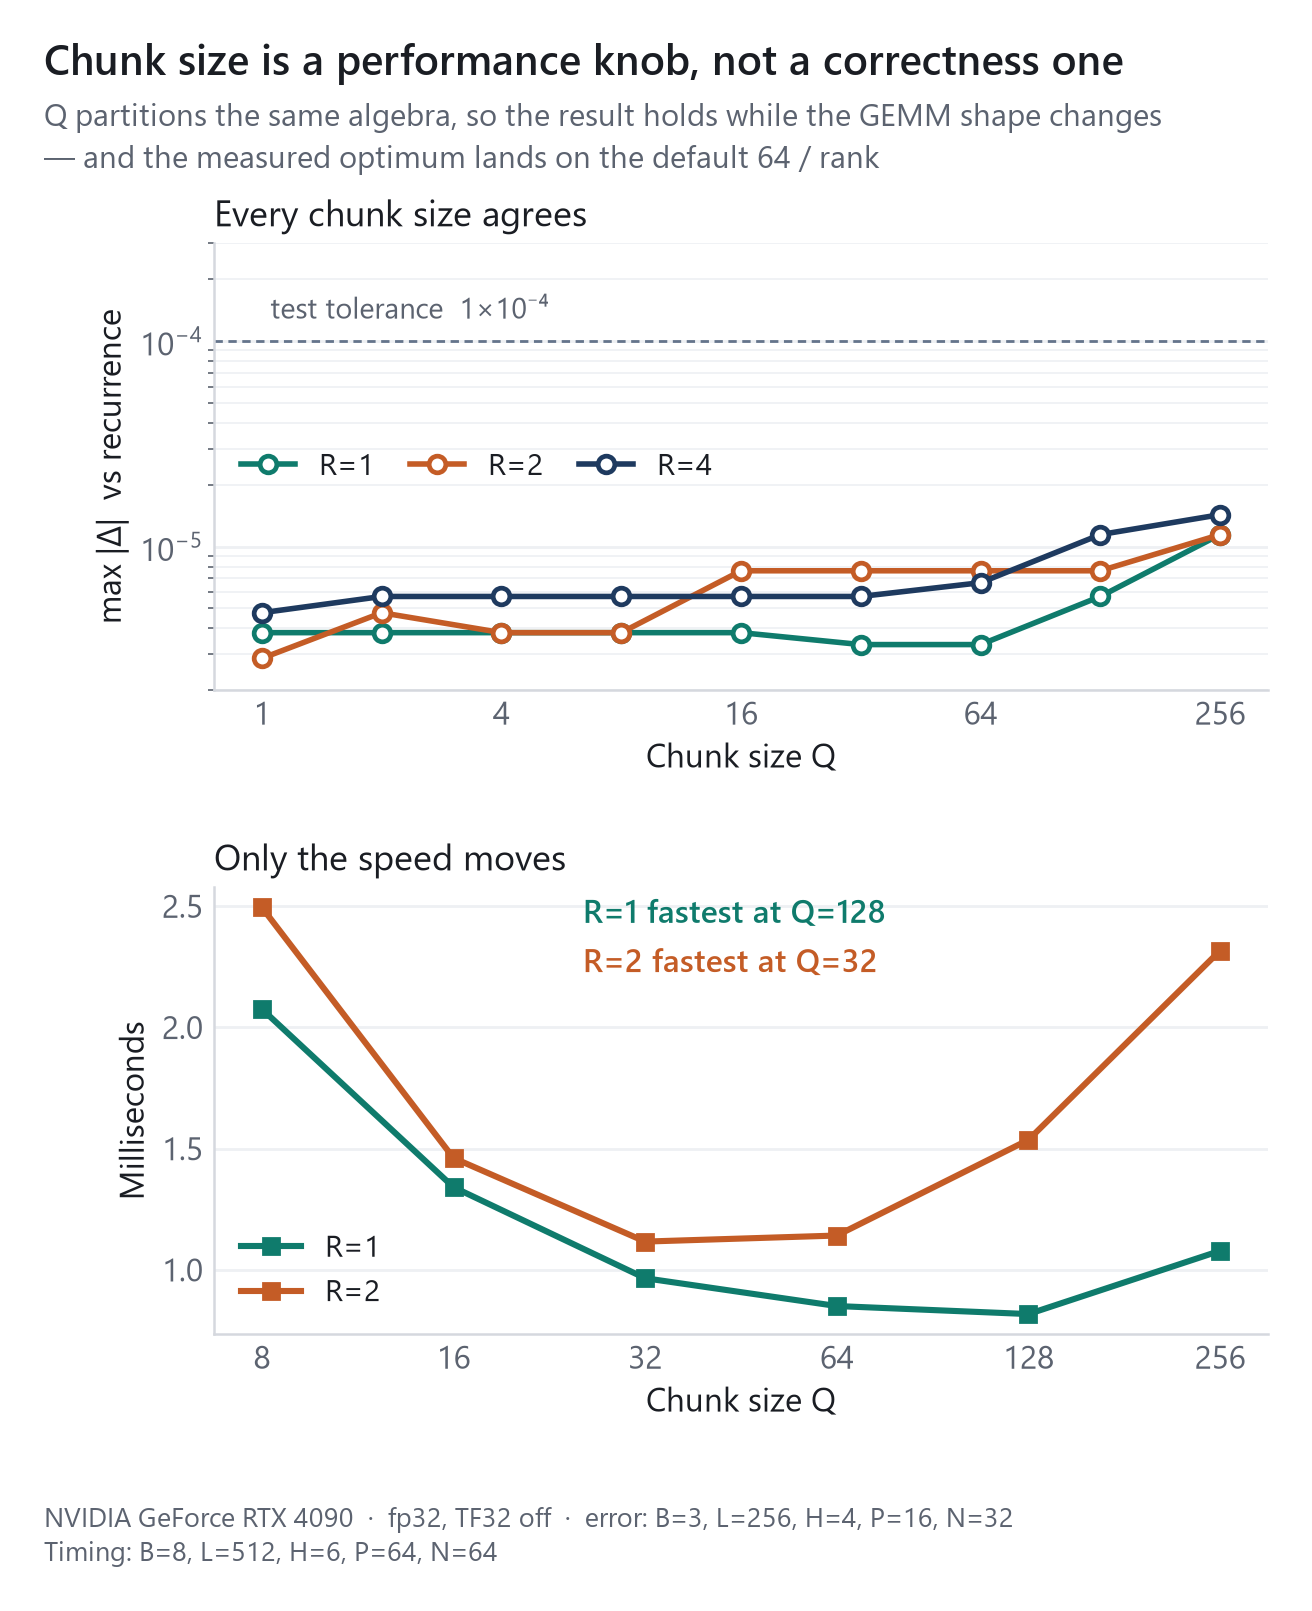
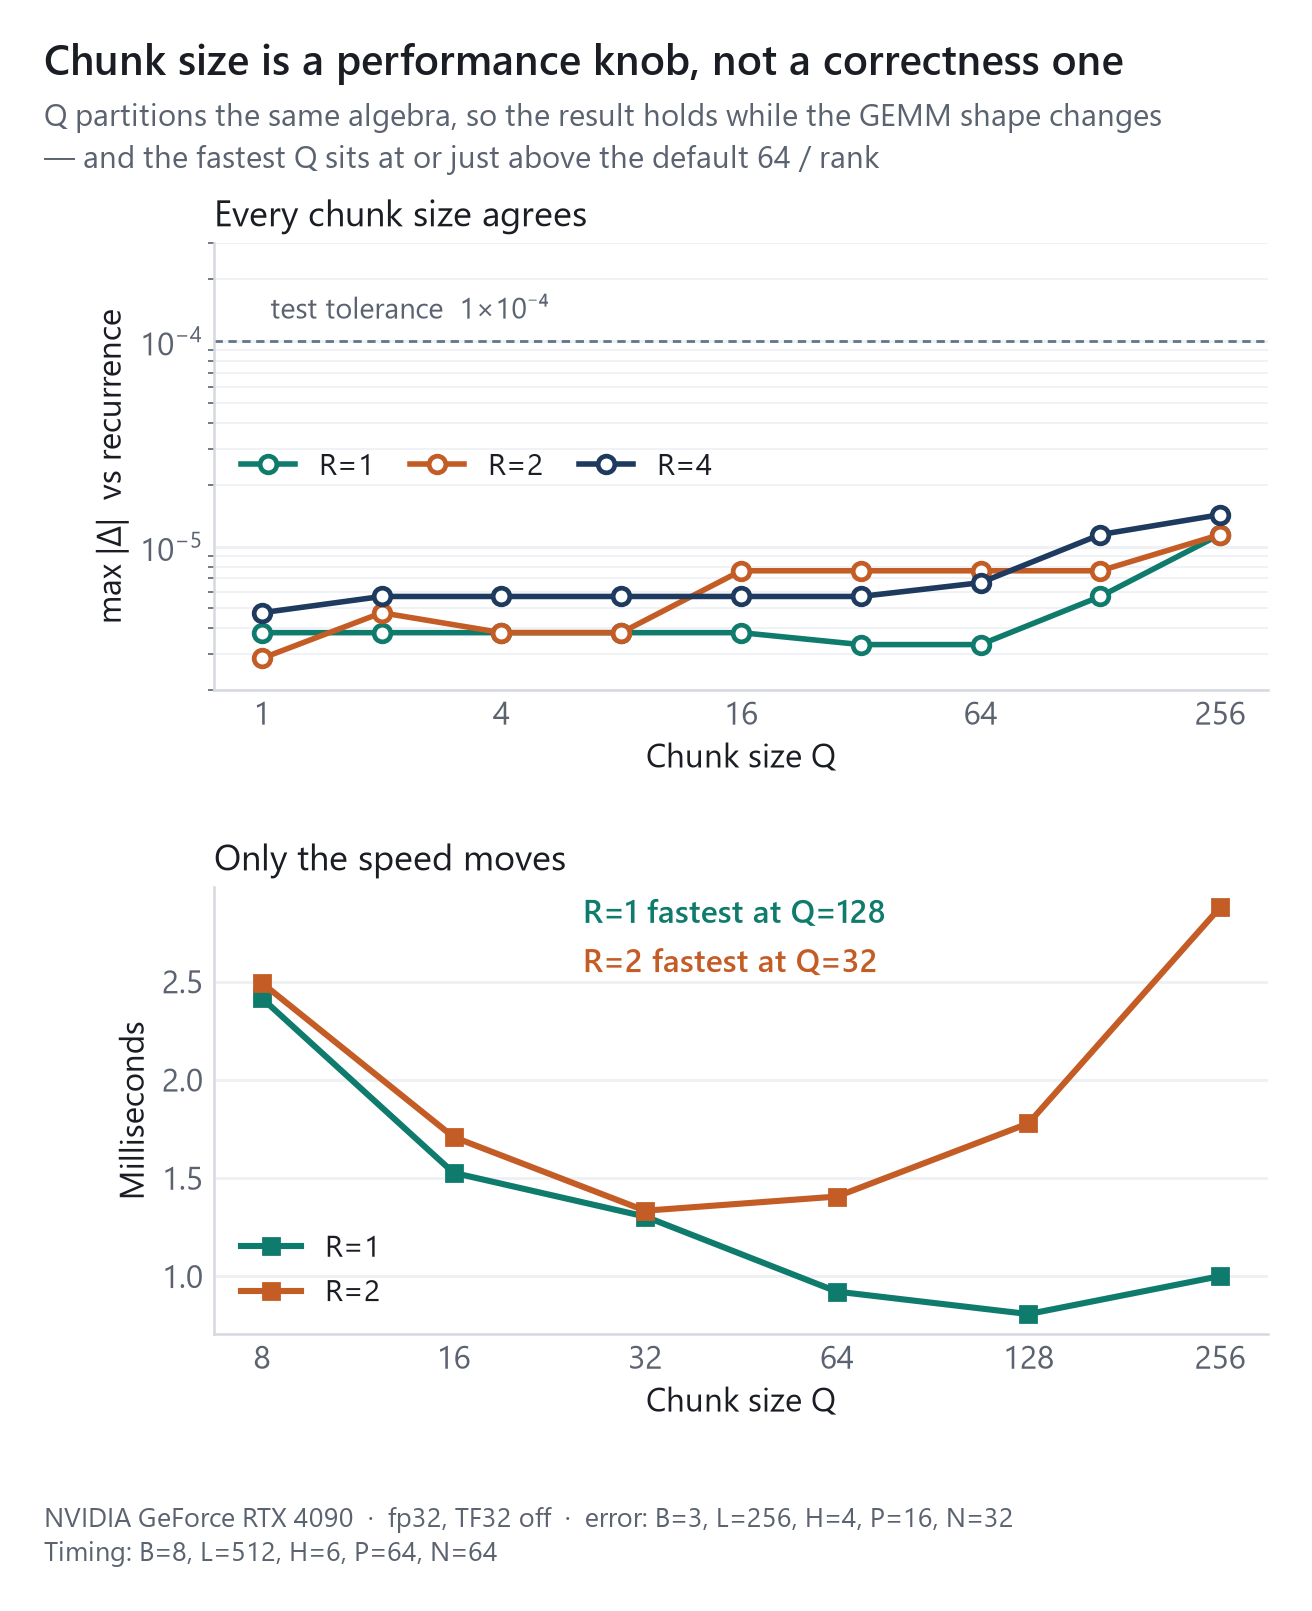
Rewrite the intro and drop application-specific benchmark labels
The decode benchmark used a batch size borrowed from a downstream model and labelled it as such. It now runs at batch 64 and is described in neutral terms, in the figure, the README and the self-check output. All README numbers refreshed from the resulting run.

diff --git a/bench_figures.py b/bench_figures.py
@@ -412,16 +412,17 @@ def measure(device) -> dict:
 
     print("-- decode bench")
     decode_bench = []
+    dec_bs, dec_len = 64, 64
     for d_state in (16, 32, 64):
         m = MixerModel(320, n_layer=3, rms_norm=True,
                        ssm_cfg=dict(d_state=d_state, headdim=64)).to(device).eval().float()
-        x = torch.randn(67, 1, 320, device=device)
+        x = torch.randn(dec_bs, 1, 320, device=device)
         with torch.inference_mode():
-            p = InferenceParams(max_seqlen=64, max_batch_size=67)
-            p.key_value_memory_dict = m.allocate_inference_cache(67, 64)
+            p = InferenceParams(max_seqlen=dec_len, max_batch_size=dec_bs)
+            p.key_value_memory_dict = m.allocate_inference_cache(dec_bs, dec_len)
             p.seqlen_offset = 1
             t_eager = timeit(lambda: m(x, inference_params=p), iters=100, warmup=30)
-            cache = update_graph_cache(m, None, 67, 0, 64)
+            cache = update_graph_cache(m, None, dec_bs, 0, dec_len)
             t_graph = timeit(lambda: cache.run(x), iters=100, warmup=30)
         decode_bench.append({
             "d_state": d_state, "eager_ms": t_eager, "graph_ms": t_graph,
@@ -429,6 +430,7 @@ def measure(device) -> dict:
         })
         print(f"   N={d_state:2d} eager={t_eager:.3f} graph={t_graph:.3f} "
               f"{t_eager / t_graph:.1f}x")
+    decode_bench_params = {"batch": dec_bs, "n_layer": 3, "d_model": 320, "headdim": 64}
 
     print("-- trainable length: chunked scan vs the naive recurrence")
     # The recurrence is what a readable reference implementation does. Backprop through
@@ -481,6 +483,7 @@ def measure(device) -> dict:
         "decode_scaling_params": {"mamba3": n_mamba, "attention": n_attn,
                                   "d_model": d_model, "nheads": nheads, "batch": dec_batch},
         "decode_bench": decode_bench,
+        "decode_bench_params": decode_bench_params,
         "stability_len": stability_len,
         "decode_drift": decode_drift,
         "long_context": long_context,
@@ -618,7 +621,7 @@ def plot_chunk(D) -> None:
 
     _heading(fig, "Chunk size is a performance knob, not a correctness one",
              "Q partitions the same algebra, so the result holds while the GEMM shape changes",
-             "— and the measured optimum lands on the default 64 / rank")
+             "— and the fastest Q sits at or just above the default 64 / rank")
     _footer(fig, f"{D['gpu']}  ·  fp32, TF32 off  ·  error: B=3, L=256, H=4, P=16, N=32",
             "Timing: B=8, L=512, H=6, P=64, N=64")
     _save(fig, "chunk_size.png")
@@ -739,7 +742,9 @@ def plot_decode(D) -> None:
     _heading(fig, "Single-step decode",
              f"CUDA graph is {lo:.1f}–{hi:.1f}× faster than eager, "
              f"{p_lo:.1f}–{p_hi:.1f}% of a 16.7 ms frame", axes_title=False)
-    _footer(fig, f"{D['gpu']}  ·  fp32, 3 layers, 67 joints, d_model=320",
+    m = D.get("decode_bench_params", {"batch": 64, "n_layer": 3, "d_model": 320})
+    _footer(fig, f"{D['gpu']}  ·  fp32, {m['n_layer']} layers, batch {m['batch']}, "
+                 f"d_model={m['d_model']}",
             "100 timed steps after 30 warmup")
     _save(fig, "decode.png")
 

diff --git a/test_mamba3.py b/test_mamba3.py
@@ -304,8 +304,8 @@ def benchmark(device) -> None:
 
     print()
     print("=" * 72)
-    print("Per-frame decode latency: plain forward vs CUDA graph "
-          "(3 layers, 67 tokens, d_model=320)")
+    print("Single-step decode latency: plain forward vs CUDA graph "
+          "(3 layers, batch 64, d_model=320)")
     print("=" * 72)
     print(f"{'d_state':>9}{'forward':>14}{'CUDA graph':>14}{'speedup':>10}"
           f"{'of 60FPS':>12}")
@@ -315,15 +315,15 @@ def benchmark(device) -> None:
         model = MixerModel(320, n_layer=3, rms_norm=True,
                            ssm_cfg=dict(d_state=d_state, headdim=64)).to(device)
         model.eval().float()
-        x = torch.randn(67, 1, 320, device=device)
+        x = torch.randn(64, 1, 320, device=device)
 
         with torch.inference_mode():
-            params = InferenceParams(max_seqlen=64, max_batch_size=67)
-            params.key_value_memory_dict = model.allocate_inference_cache(67, 64)
+            params = InferenceParams(max_seqlen=64, max_batch_size=64)
+            params.key_value_memory_dict = model.allocate_inference_cache(64, 64)
             params.seqlen_offset = 1
             t_eager = timeit(lambda: model(x, inference_params=params), iters=100, warmup=30)
 
-            cache = update_graph_cache(model, None, 67, 0, 64)
+            cache = update_graph_cache(model, None, 64, 0, 64)
             t_graph = timeit(lambda: cache.run(x), iters=100, warmup=30)
 
         print(f"{d_state:>9}{t_eager:>12.3f}ms{t_graph:>12.3f}ms"

diff --git a/README.md b/README.md
@@ -8,20 +8,22 @@
 <h1 align="center">Mamba-3</h1>
 
 <p align="center">
-  Single-file <a href="https://arxiv.org/abs/2603.15569">Mamba-3</a>.
-  Official <a href="https://github.com/state-spaces/mamba"><code>mamba_ssm</code></a> API.
-  PyTorch is the only dependency.
+  The whole of <a href="https://arxiv.org/abs/2603.15569">Mamba-3</a> in one file —
+  official <a href="https://github.com/state-spaces/mamba"><code>mamba_ssm</code></a> API,
+  pure PyTorch, no kernels to build.
 </p>
 
-Drop [`mamba3.py`](mamba3.py) into a project. No nvcc, CUDA Toolkit, MSVC, Triton, TileLang, einops or `mamba-ssm`. A CUDA-enabled PyTorch build is enough for GPU acceleration.
+Copy [`mamba3.py`](mamba3.py) into your project, `pip install torch`, and you have Mamba-3 running on the GPU: SISO and MIMO, chunked prefill, single-step decode, CUDA-graph replay, gradients included.
 
-This file replaces the official **kernel backend**, not the interface. Names, arguments, attributes, state layouts and calling conventions match `mamba_ssm`, so the official docs apply as-is and weights are interchangeable.
+**Nothing to compile.** No nvcc, no CUDA Toolkit, no MSVC, no Triton, no TileLang, no einops, no `mamba-ssm`. A CUDA-enabled PyTorch build is the entire dependency list — which is what makes this work on Windows, inside a locked-down container, or on a cluster where you cannot install a toolchain.
+
+**Not a lookalike.** This file replaces the official *kernel backend*, not the interface. Module names, arguments, attributes, state layouts and calling conventions follow `mamba_ssm` exactly, and parameter names line up one-to-one with the official modules — so upstream code and docs apply to it unchanged.
 
 <div align="center">
 <table>
   <tr>
-    <td align="center" width="50%"><strong>75×</strong><br><sub>SISO scan at L=512, vs the recurrence</sub></td>
-    <td align="center" width="50%"><strong>0.42 ms</strong><br><sub>CUDA-graph decode, 67 joints</sub></td>
+    <td align="center" width="50%"><strong>72×</strong><br><sub>SISO scan at L=512, vs the recurrence</sub></td>
+    <td align="center" width="50%"><strong>0.51 ms</strong><br><sub>CUDA-graph decode, batch 64</sub></td>
   </tr>
   <tr>
     <td align="center"><strong>247×</strong><br><sub>smaller than a 16k-token KV cache</sub></td>
@@ -114,7 +116,7 @@ The error also does not accumulate. It is flat from `L=32` to `L=4096`, and a st
   <img src="assets/stability.png" width="600" alt="Error vs sequence length and vs decode step">
 </p>
 
-`chunk_size` is a tuning knob only: `Q` partitions the same algebra, so the result holds across `Q = 1 … 256` while the GEMM shape — and the speed — changes. The measured optimum lands on the documented default of `64 / mimo_rank`.
+`chunk_size` is a tuning knob only: `Q` partitions the same algebra, so the result holds across `Q = 1 … 256` while the GEMM shape — and the speed — changes. The fastest `Q` sits at or just above the documented default of `64 / mimo_rank`.
 
 <p align="center">
   <img src="assets/chunk_size.png" width="600" alt="Error and time vs chunk size">
@@ -145,10 +147,10 @@ Recurrent time grows linearly with `L`; chunked time stays near 1 ms, because th
 
 | | L=32 | L=128 | L=512 |
 |---|---:|---:|---:|
-| SISO chunked | 0.70 ms | 0.82 ms | 0.82 ms |
-| SISO vs recurrence | 5.4× | 18.6× | **74.9×** |
-| MIMO(R=2) chunked | 0.81 ms | 0.78 ms | 1.11 ms |
-| MIMO(R=2) vs recurrence | 6.1× | 24.6× | **68.1×** |
+| SISO chunked | 0.71 ms | 0.76 ms | 0.86 ms |
+| SISO vs recurrence | 5.4× | 20.2× | **71.9×** |
+| MIMO(R=2) chunked | 0.77 ms | 0.88 ms | 1.07 ms |
+| MIMO(R=2) vs recurrence | 6.3× | 21.5× | **69.2×** |
 
 </div>
 
@@ -164,10 +166,10 @@ Backprop through `L` Python steps is the wall a readable reference implementatio
 
 | Sequence length | 128 | 1k | 4k |
 |---|---:|---:|---:|
-| Recurrence, fwd + bwd | 73 ms | 636 ms | 2526 ms |
-| Chunked scan, fwd + bwd | 2.7 ms | 4.7 ms | **12.9 ms** |
-| Recurrence, peak allocated | 278 MiB | 1004 MiB | 3463 MiB |
-| Chunked scan, peak allocated | 197 MiB | 361 MiB | **921 MiB** |
+| Recurrence, fwd + bwd | 79 ms | 652 ms | 2615 ms |
+| Chunked scan, fwd + bwd | 2.9 ms | 4.9 ms | **12.9 ms** |
+| Recurrence, peak allocated | 273 MiB | 998 MiB | 3460 MiB |
+| Chunked scan, peak allocated | 192 MiB | 356 MiB | **916 MiB** |
 
 </div>
 
@@ -183,8 +185,8 @@ The reason to reach for an SSM. Decoding one token costs the same whether 256 or
 
 | Context | 256 | 1k | 4k | 16k |
 |---|---:|---:|---:|---:|
-| Attention + KV cache | 0.07 ms | 0.21 ms | 0.81 ms | 3.48 ms |
-| Mamba-3 recurrent state | 1.04 ms | 1.01 ms | 0.98 ms | **1.03 ms** |
+| Attention + KV cache | 0.08 ms | 0.21 ms | 0.78 ms | 3.09 ms |
+| Mamba-3 recurrent state | 1.03 ms | 1.06 ms | 0.99 ms | **0.98 ms** |
 | KV cache, per layer | 3.0 MiB | 12.0 MiB | 48.0 MiB | 192.0 MiB |
 | SSM state, per layer | 0.78 MiB | 0.78 MiB | 0.78 MiB | **0.78 MiB** |
 
@@ -194,7 +196,7 @@ Latency crosses over near 5k tokens; memory is flat throughout, 247× smaller at
 
 ### Eager vs CUDA-graph decode
 
-Streaming-pose setting: 3 layers, 67 joints, `d_model=320`. Single-step decode is almost pure launch overhead, which a graph replay removes.
+Decoding one token at a time, 3 layers, batch 64, `d_model=320`. At this size a step is almost pure kernel-launch overhead, which a graph replay removes.
 
 <p align="center">
   <img src="assets/decode.png" width="600" alt="Eager vs CUDA-graph decode">
@@ -204,9 +206,9 @@ Streaming-pose setting: 3 layers, 67 joints, `d_model=320`. Single-step decode i
 
 | `d_state` | Eager | CUDA graph | Speedup | of 60 FPS |
 |---:|---:|---:|---:|---:|
-| 16 | 3.57 ms | **0.42 ms** | 8.5× | 2.5% |
-| 32 | 3.57 ms | **0.48 ms** | 7.5× | 2.9% |
-| 64 | 3.40 ms | **0.64 ms** | 5.3× | 3.8% |
+| 16 | 3.52 ms | **0.51 ms** | 6.9× | 3.1% |
+| 32 | 3.54 ms | **0.55 ms** | 6.5× | 3.3% |
+| 64 | 3.66 ms | **0.75 ms** | 4.9× | 4.5% |
 
 </div>
 
